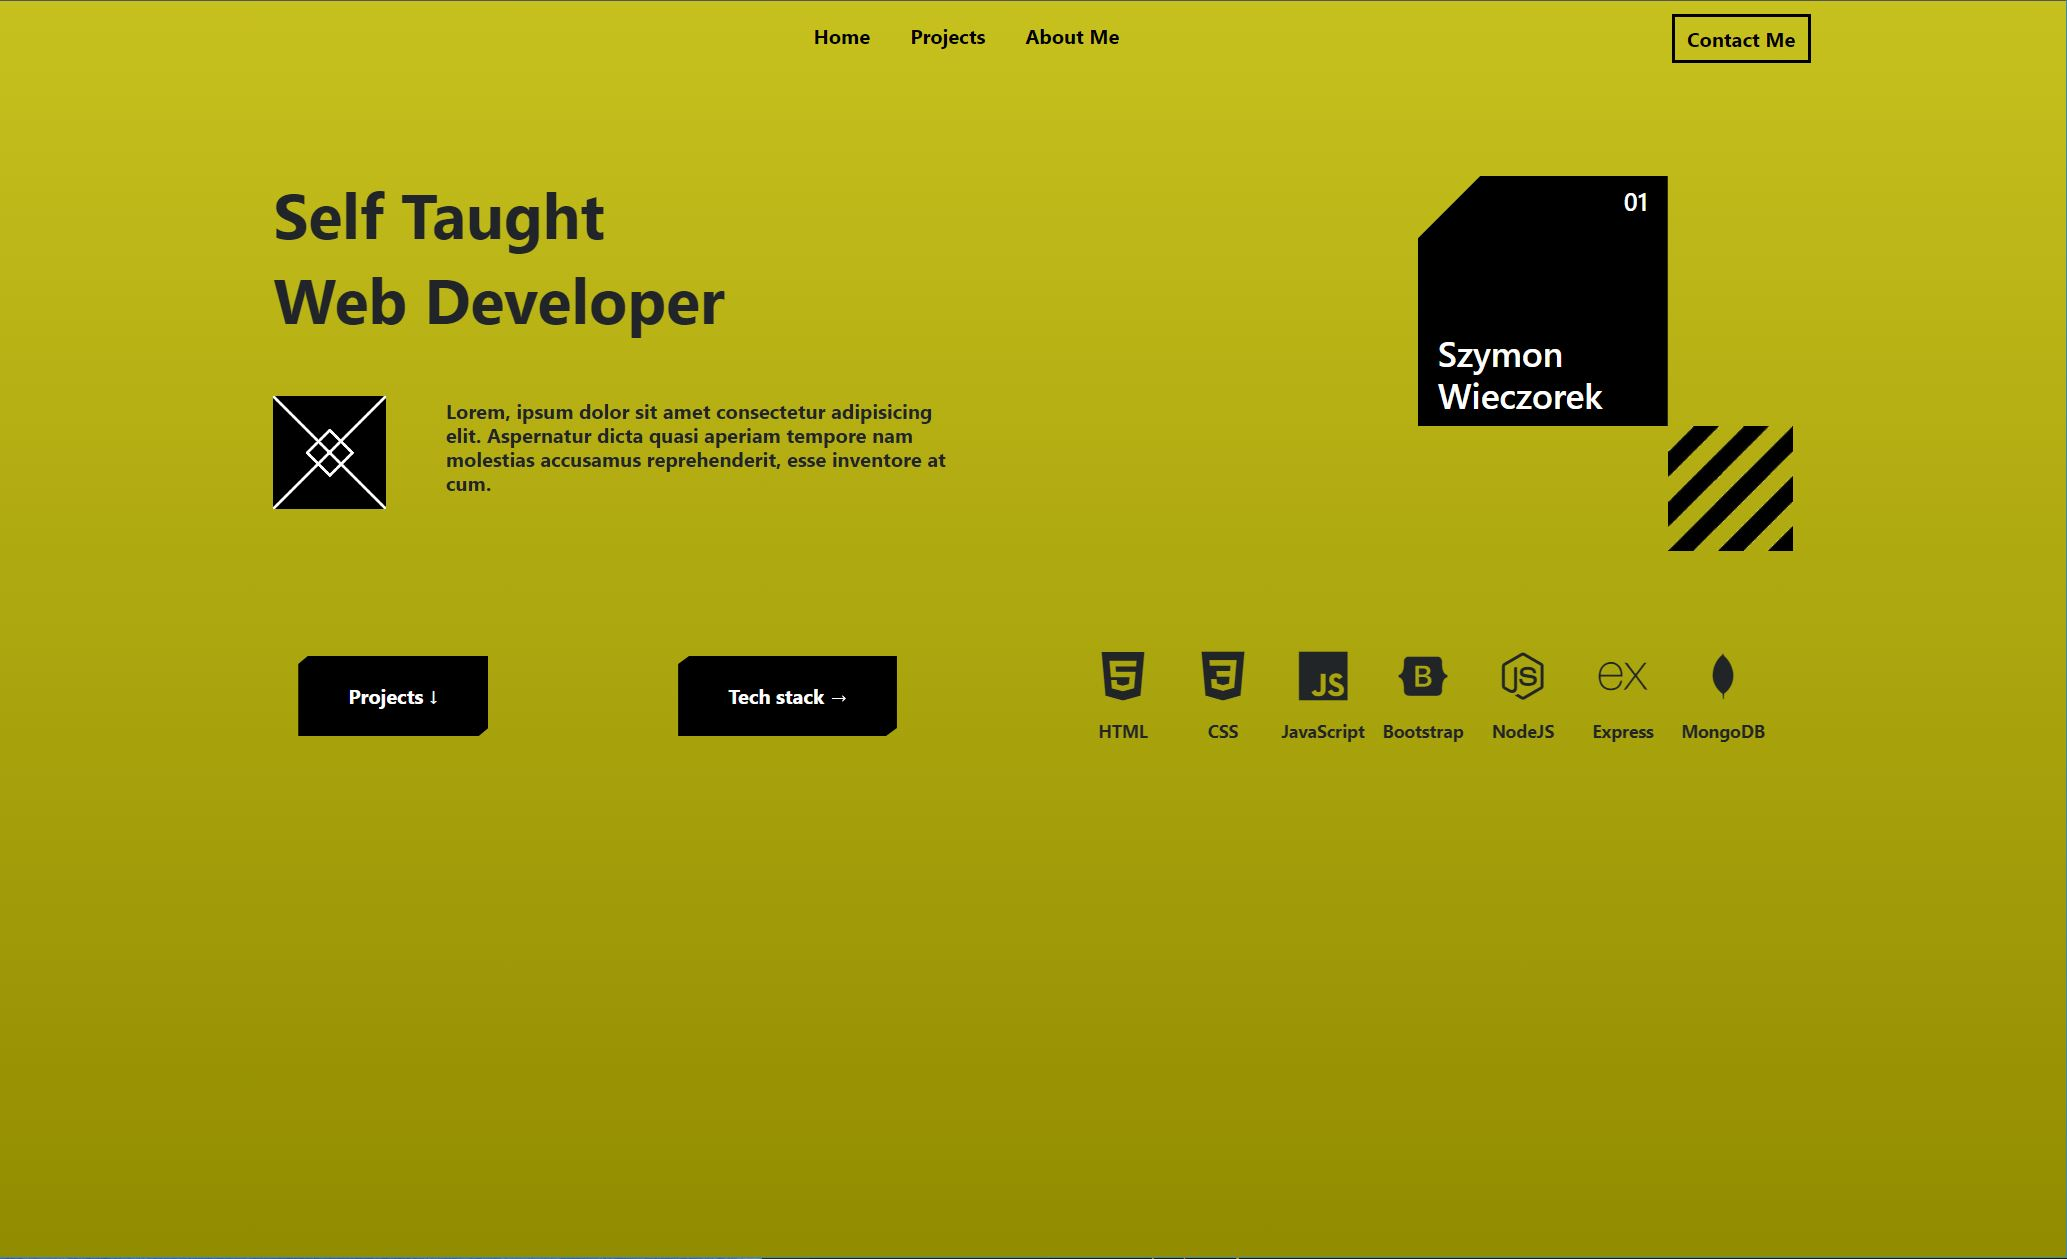
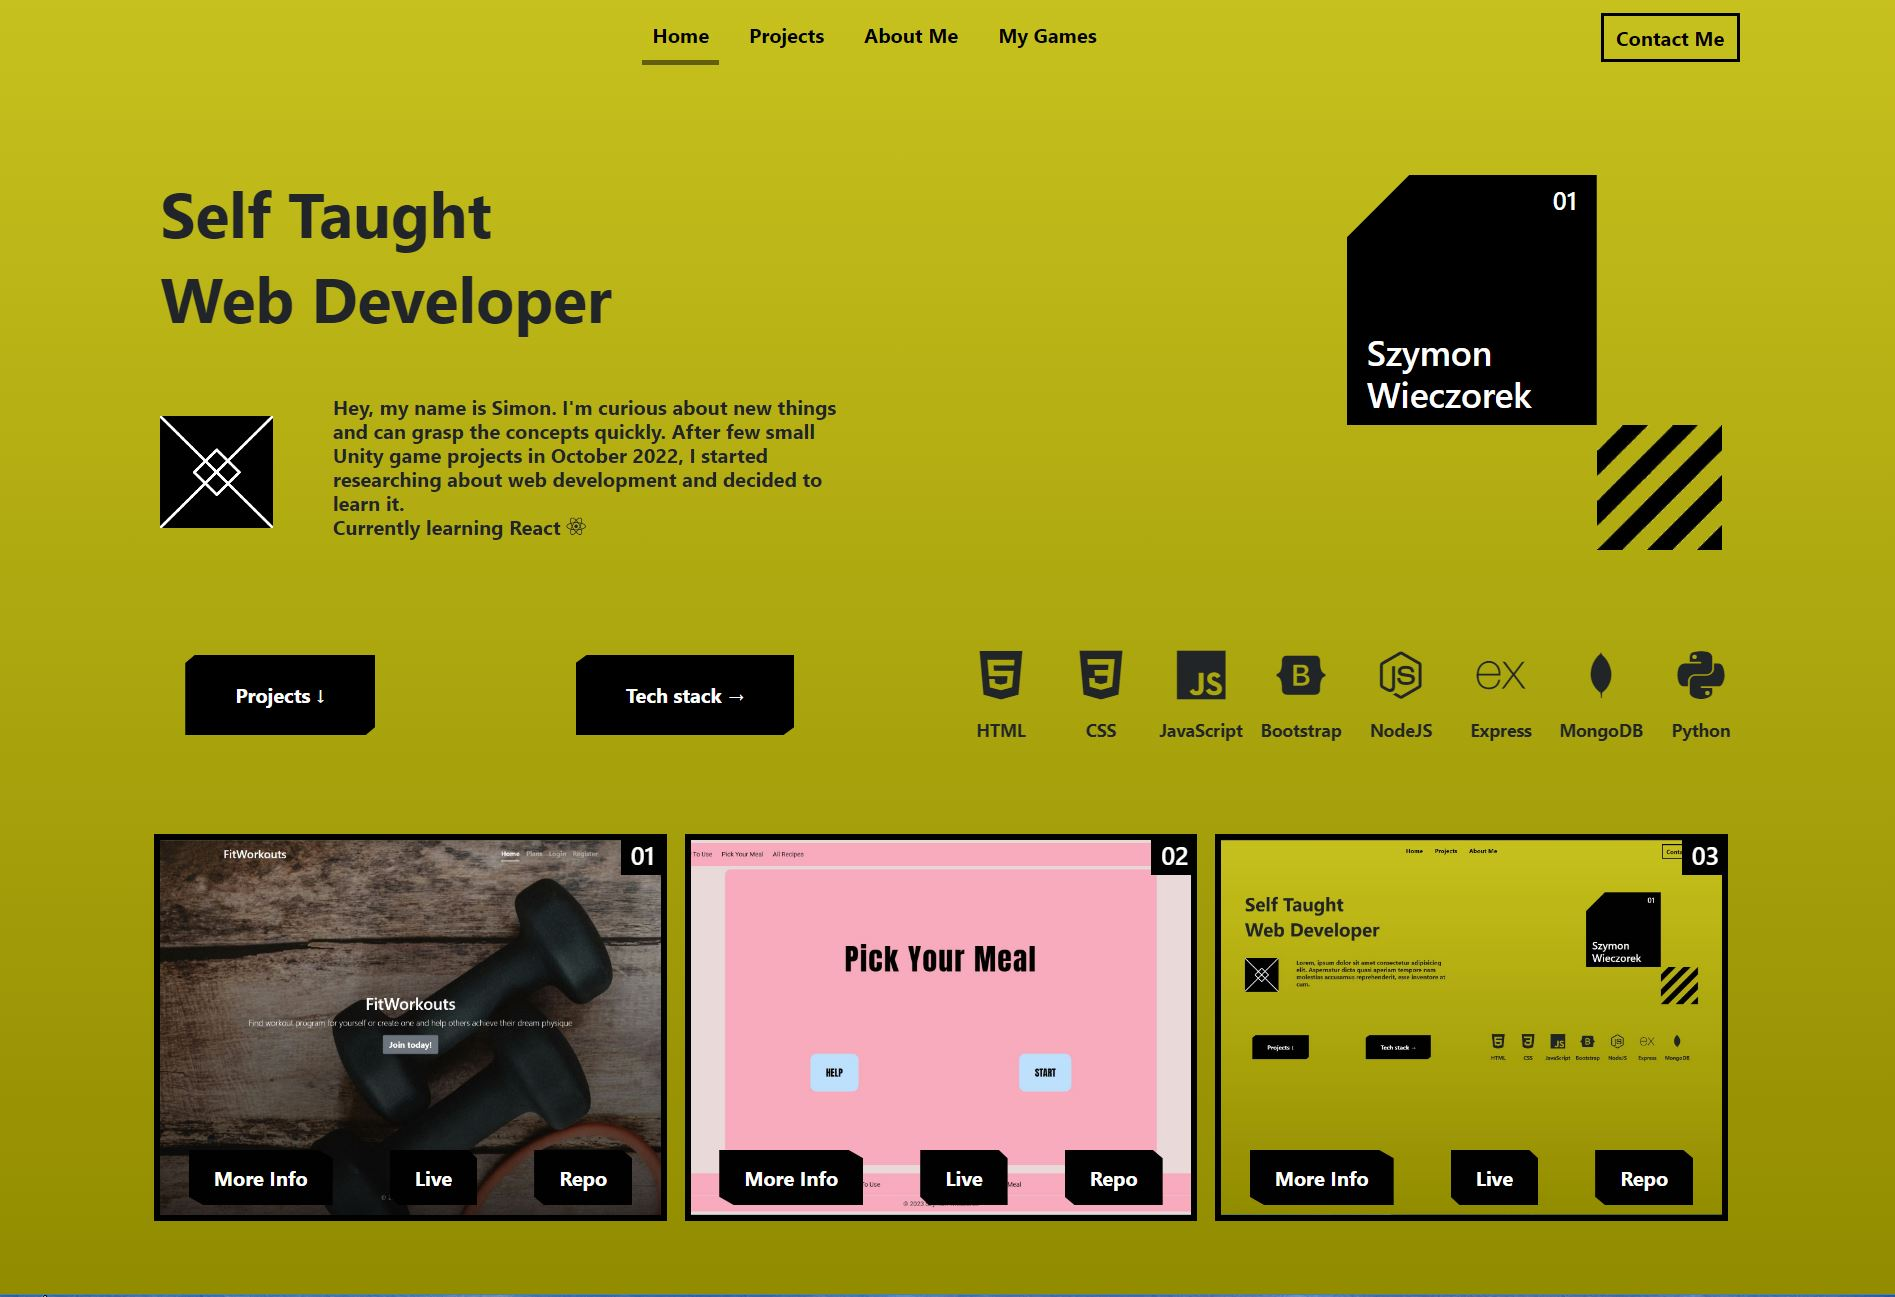
description, added new nav link

diff --git a/public/styles/styles.css b/public/styles/styles.css
@@ -295,7 +295,7 @@ body {
 }
 
 .contactborder {
-    padding: 1rem 2rem;
+    padding: 0.5rem 1rem;
     border: 3px solid black;
 }
 
@@ -470,7 +470,7 @@ body {
 
 @media (max-width: 576px) {
     body {
-        width: 100vw;
+        width: 95vw;
     }
     .title {
         text-align: center;

diff --git a/index.js b/index.js
@@ -6,7 +6,7 @@ const app = express();
 const port = process.env.PORT || 3000
 
 app.engine('ejs', ejsmate);
-app.set('view enginge', 'ejs');
+app.set('view engine', 'ejs');
 
 app.set('views', path.join(__dirname, '/views'));
 app.use(express.static(path.join(__dirname, 'public')));
